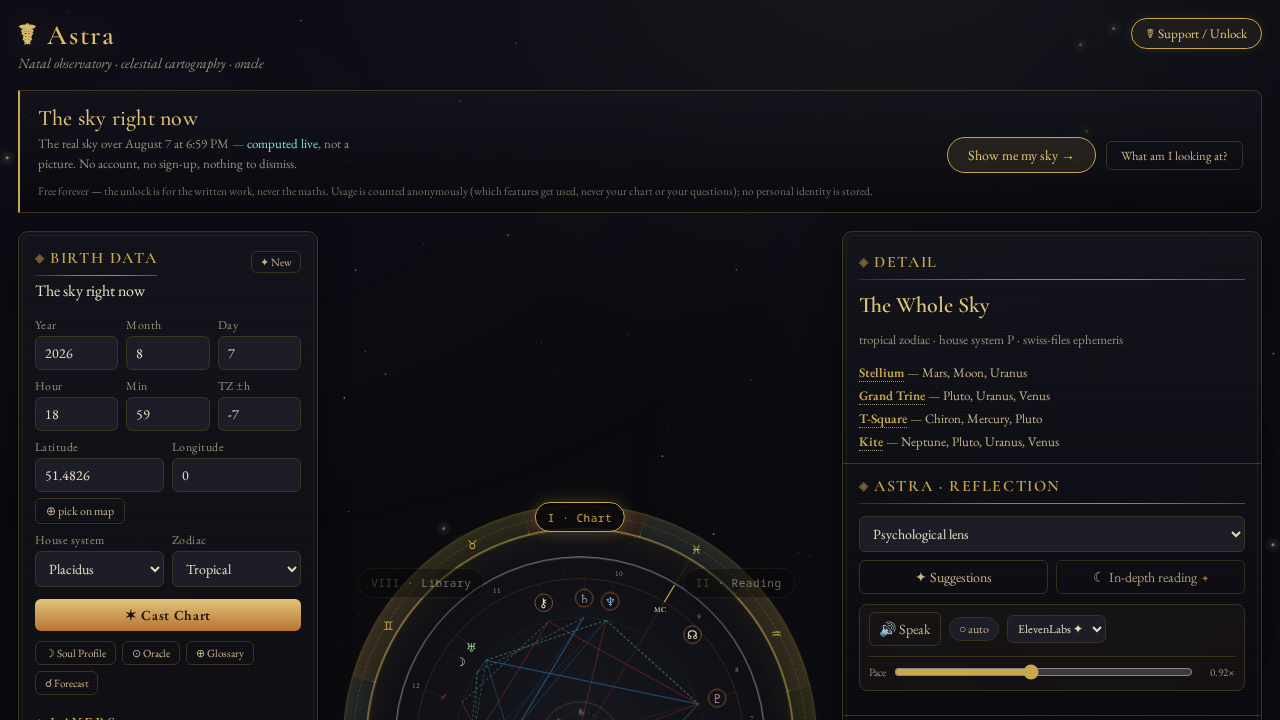
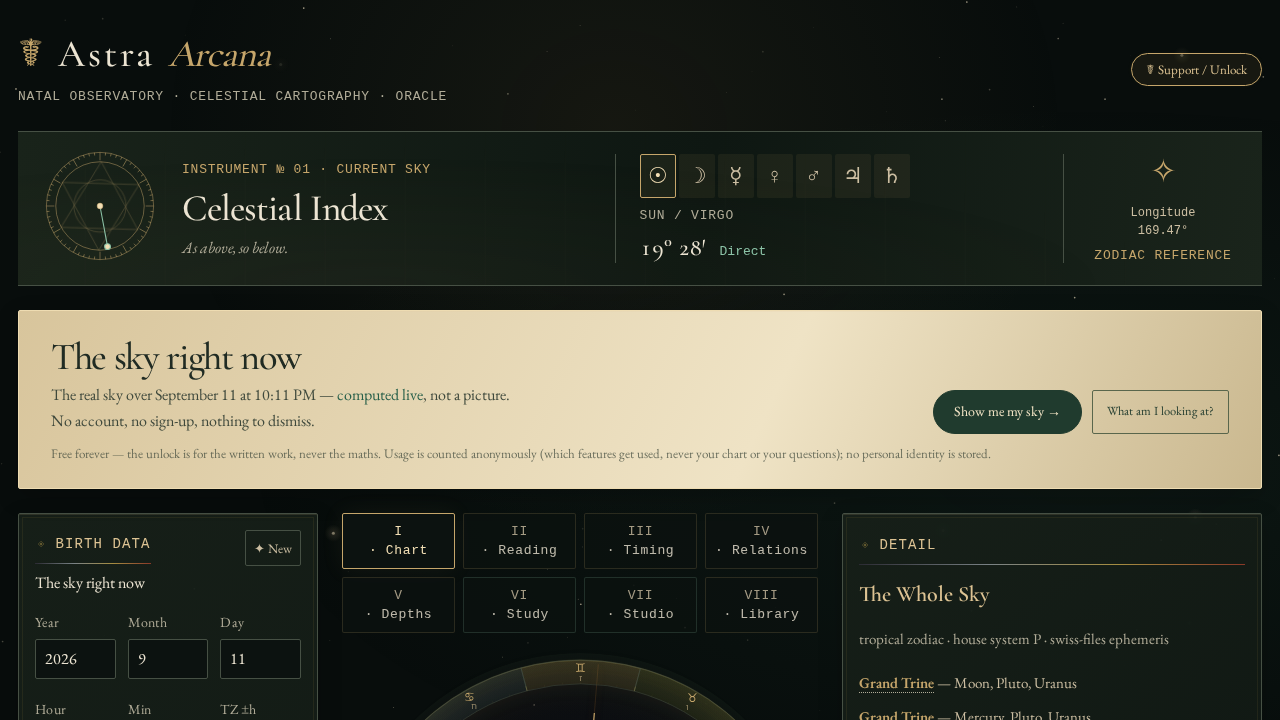
The vendored faces lead the type again, and two specs learn to scroll before they drag
Three things the full suite found on a clean stack, and the screenshots
that follow from the first.

1. EB GARAMOND HAD STOPPED LOADING. The redesign wrote the two serif
   stacks as system faces — Palatino, Book Antiqua, Baskerville, Georgia —
   on the reasoning that a system stack makes no font request. True, and
   beside the point: the vendored faces in public/fonts make no request
   either, and they are the only serifs an Android WebView can render at
   all. A phone has none of the four named, so the APK would have fallen
   to Noto Serif on every screen. no-external.spec pins that the vendored
   face actually loads, and it failed. Cormorant Garamond and EB Garamond
   lead both stacks again; the system faces stay as fallbacks for a reader
   whose font files never arrived. The design doc's type row says so now.

2. TWO TORUS SPECS DRAGGED AT A POINT BELOW THE FOLD. torus-layers and
   torus-hebrew-crystal stop the idle spin with a page.mouse drag at the
   canvas's centre. page.mouse moves to viewport coordinates and never
   scrolls; the masthead's Celestial Index put that centre past 720px, so
   elementFromPoint there was null, the pointerdown reached nothing, the
   spin never stopped, and three layer tests failed while looking like a
   layer bug (the idle-spin test itself passed or failed on the scroll
   position the tab click happened to leave). Measured, not inferred: a
   probe reported "under centre: none" and zero pointerdowns on the canvas.
[…]

diff --git a/frontend/e2e/capture-screenshots.spec.ts b/frontend/e2e/capture-screenshots.spec.ts
@@ -53,6 +53,16 @@ async function shot(page: import("@playwright/test").Page, name: string) {
   await page.screenshot({ path: path.join(OUT, `${name}.png`), fullPage: false });
 }
 
+/** The wheel shot. The masthead now carries the Celestial Index above the
+ *  chart, and on a 1280×720 viewport that puts the wheel below the fold — a
+ *  "chart wheel" screenshot that shows a header is not one. Bring the stage
+ *  into view first; the clipped viewport is still what a visitor sees. */
+async function wheelShot(page: import("@playwright/test").Page, name: string) {
+  await page.locator(".chart-holo-stage").scrollIntoViewIfNeeded();
+  await page.waitForTimeout(250);
+  await shot(page, name);
+}
+
 async function chapter(page: import("@playwright/test").Page, ch: string, name: string) {
   await page.locator(`.dial-node[data-ch="${ch}"]`).click();
   await page.waitForTimeout(700); // chapter bloom is a 240ms clip-path wipe
@@ -76,7 +86,7 @@ test("capture: the free tier, as a first-time visitor meets it", async ({ page }
 
 test("capture: the chart and the chapters, free tier", async ({ page }) => {
   await enter(page);
-  await shot(page, "03-chart-wheel");
+  await wheelShot(page, "03-chart-wheel");
   await chapter(page, "II", "04-reading-arcana");
   await chapter(page, "III", "05-timing-forecast");
   await chapter(page, "IV", "06-relations");
@@ -105,7 +115,7 @@ test("capture: the premium surfaces, on an oracle entitlement", async ({ page })
   const { oracle } = mintedTokens();
   test.skip(!oracle, "no oracle token — global-setup could not mint one");
   await enter(page, oracle);
-  await shot(page, "10-oracle-tier-chart");
+  await wheelShot(page, "10-oracle-tier-chart");
   await chapter(page, "II", "11-oracle-reading-surface");
   await chapter(page, "VI", "12-study-course-and-path");
   await chapter(page, "VII", "13-studio-deck-art");
@@ -128,7 +138,7 @@ test("capture: mobile viewport", async ({ browser }) => {
   const ctx = await browser.newContext({ viewport: { width: 390, height: 844 } });
   const page = await ctx.newPage();
   await enter(page);
-  await shot(page, "15-mobile-chart");
+  await wheelShot(page, "15-mobile-chart");
   await page.locator(`.dial-node[data-ch="II"]`).click();
   await page.waitForTimeout(700);
   await shot(page, "16-mobile-reading");

diff --git a/landing/index.html b/landing/index.html
@@ -37,9 +37,12 @@
 
 <style>
   :root{
-    --bg:#0b0b0f; --panel:#12121a; --gold:#c9a84c; --gold-soft:#e0c578;
-    --gold-bright:#f2dca0; --ink:#9a8f78; --rule:#3a3320; --amethyst:#8e7cc3;
-    --ion:#7fe7dc; --text:#e8e3d6;
+    /* The engraved observatory's palette (frontend/src/observatory.css), so the
+       door and the room match: green-black obsidian, brass rules, vitriol for
+       anything computed, parchment for the reading. */
+    --bg:#080d0c; --panel:#0c1210; --gold:#c5a66b; --gold-soft:#ddc393;
+    --gold-bright:#f3dfb5; --ink:#b1ac98; --rule:#465044; --amethyst:#8bc5ad;
+    --ion:#8bc5ad; --text:#ece4d2;
     --serif: "Iowan Old Style","Palatino Linotype",Palatino,Georgia,"Times New Roman",serif;
   }
   *{box-sizing:border-box}
@@ -108,11 +111,11 @@
   th,td{padding:13px 12px; text-align:left; border-bottom:1px solid var(--rule); vertical-align:top}
   th{color:var(--gold); font-weight:600; font-size:13px; letter-spacing:.09em; text-transform:uppercase}
   .price{color:var(--gold-bright); font-weight:600; white-space:nowrap}
-  .free-row td{background:#12121a55}
+  .free-row td{background:#0c121055}
 
   blockquote{
     margin:0; padding:22px 26px; border-left:2px solid var(--amethyst);
-    background:#12121a88; border-radius:0 10px 10px 0; font-style:italic;
+    background:#0c121088; border-radius:0 10px 10px 0; font-style:italic;
     color:var(--text); font-size:17.5px;
   }
   .attest{color:var(--ion); font-size:14px; margin-top:14px}

diff --git a/frontend/e2e/torus-layers.spec.ts b/frontend/e2e/torus-layers.spec.ts
@@ -21,6 +21,14 @@ async function openTorus(page: import("@playwright/test").Page) {
   // Stop the idle spin before comparing pixels. The torus turns gently until
   // the reader takes the wheel, so consecutive frames differ on their own and
   // a diff would prove nothing about the layer. One drag hands over control.
+  //
+  // The drag has to LAND. `page.mouse` moves to viewport coordinates and does
+  // not scroll, and since the masthead grew the Celestial Index the canvas's
+  // centre can sit below a 720px fold — elementFromPoint there is null, the
+  // pointerdown reaches nothing, the spin never stops, and every diff below
+  // fails while looking like a layer bug. Bring the canvas in first.
+  await canvas(page).scrollIntoViewIfNeeded();
+  await page.waitForTimeout(400); // the chapter's arrival animation, settled
   const box = (await canvas(page).boundingBox())!;
   await page.mouse.move(box.x + box.width / 2, box.y + box.height / 2);
   await page.mouse.down();

diff --git a/frontend/src/observatory.css b/frontend/src/observatory.css
@@ -25,8 +25,13 @@
   --glass-hi: #172019f5;
   --glass-lo: #0d1511f5;
   --scanline: linear-gradient(transparent, transparent);
-  --serif: "Palatino Linotype", "Book Antiqua", Palatino, Georgia, serif;
-  --display: "Baskerville", "Iowan Old Style", "Palatino Linotype", Georgia, serif;
+  /* The vendored faces lead both stacks (public/fonts, no network request):
+   * they are the only ones an Android WebView can actually render — a phone
+   * has no Palatino, Baskerville or Georgia and would fall to Noto Serif —
+   * and no-external.spec pins that they load. The system faces stay as the
+   * fallback for a reader whose font files never arrived. */
+  --serif: "EB Garamond", "Palatino Linotype", "Book Antiqua", Palatino, Georgia, serif;
+  --display: "Cormorant Garamond", "EB Garamond", Baskerville, "Iowan Old Style", "Palatino Linotype", Georgia, serif;
   --mono: "SFMono-Regular", Consolas, "Liberation Mono", monospace;
   --space-1: .25rem;
   --space-2: .5rem;

diff --git a/frontend/e2e/torus-hebrew-crystal.spec.ts b/frontend/e2e/torus-hebrew-crystal.spec.ts
@@ -21,7 +21,11 @@ async function openTorus(page: import("@playwright/test").Page) {
   await expect(canvas(page)).toBeVisible();
   // Stop the idle spin — same reason as torus-layers.spec: the surface turns on
   // its own until the reader takes the wheel, and a diff against a moving
-  // target proves nothing.
+  // target proves nothing. And the drag has to land: page.mouse does not
+  // scroll, and the masthead's Celestial Index can put the canvas centre
+  // below a 720px fold, where a pointerdown reaches nothing.
+  await canvas(page).scrollIntoViewIfNeeded();
+  await page.waitForTimeout(400);
   const box = (await canvas(page).boundingBox())!;
   await page.mouse.move(box.x + box.width / 2, box.y + box.height / 2);
   await page.mouse.down();

diff --git a/docs/progress/CODEX_HANDOFF_2026-09-11.md b/docs/progress/CODEX_HANDOFF_2026-09-11.md
@@ -1,0 +1,101 @@
+# Astra handoff — engraved observatory review
+
+Session: September 11, 2026. Workspace: `/home/kill/astro-aae`.
+
+## What this session was
+
+A frontend visual redesign, followed by live local review and corrections to typography, chart navigation, and transit timeline layout. The result is committed and pushed for review; it is not a merged or published release.
+
+## Start here
+
+- Branch: `codex/engraved-observatory-review`.
+- Commit: `fcc96f1` — `Redesign observatory and improve chart timeline readability`.
+- Remote: `https://github.com/9x25dillon/astro_caster.git`.
+- Branch URL: https://github.com/9x25dillon/astro_caster/tree/codex/engraved-observatory-review
+- Branched from `claude/holographic-natal-wheel` at `39fa572`. Do not assume the branch was based directly on current `main`; check ancestry before preparing a PR.
+- Push succeeded and upstream tracking was established. No PR was created, no merge performed, no APK rebuilt, and no release published in this session.
+- This new root handoff is local and uncommitted when written. An unrelated exported text report is also untracked: preserve it and exclude it from staging.
+- `docs/progress/Hand_off.md` is older historical context. Its production SHAs, test counts, shell notes, and release status must be reverified, not treated as current facts.
+
+## User intent and boundaries
+
+The user wants a sophisticated arcane instrument aesthetic: obsidian, brass, vitriol green, parchment, celestial geometry, and purposeful motion. Avoid purple-gradient styling and decorative effects that compromise legibility or hit targets.
+
+The application has a Hetzner-hosted frontend/backend/webpage and an Android APK. The user explicitly wants a full review before rebuilding the APK or publishing a release. Work locally on the review branch; do not merge, deploy, rebuild the APK, or publish without subsequent authorization. Do not infer production status from local Git state.
+
+The user initially paused edits to review screenshots, then explicitly authorized local typography/overlap fixes, then authorized committing and pushing to a new branch without merging. Those actions are complete. The next session should start with their review feedback, not an unsolicited redesign pass.
+
+## Implemented
+
+- `frontend/src/observatory.css`: new theme loaded after the legacy stylesheet; brass/vitriol colors, parchment introduction, typography and spacing, responsive instrument styling, motion, and accessibility overrides.
+- `frontend/src/components/CelestialIndex.tsx`: seven classical-body controls using actual chart data; longitude pointer, decorative sixfold lattice, keyboard activation, pressed state, and chart-detail selection.
+- `frontend/src/App.tsx` and `main.tsx`: header integration and stylesheet import.
+- `frontend/src/components/TransitSlider.tsx`: separate step controls, range slider, date field, and aspect rows; native transit toggle button.
+- `frontend/src/components/Starfield.tsx`: reduced-motion preference, visibility pause, context guard, and listener/frame cleanup.
+- `frontend/src/theme.css` and `ChartHologram.tsx`: legacy amethyst/cyan material accents migrated toward vitriol.
+- `docs/design/engraved-observatory.md`: design thesis, token rationale, API annotations, motion specification, migration notes, and validation limitations.
+
+Modern CSS includes `oklch()`, `color-mix()`, `@property`, container queries, `:has()`, and feature-gated scroll timelines. No WebGPU renderer was introduced. Chart calculations, payment behavior, storage, and backend code were not changed.
+
+## User feedback resolved — do not regress
+
+1. Text felt cramped. Labels now generally use 13–14px; principal reading text uses 15–16px, with explicit leading and more control spacing. Small chart glyphs and some legacy secondary text retain their existing sizing.
+2. A sticky desktop wheel overlapped the active timeline by approximately 114px at 1440×720. At 1920×1080, its container intercepted the transit toggle. The final wheel and timeline stay in normal document flow, in separate grid rows.
+3. Moving chapter labels inward prevented side-panel collisions but covered planet glyphs. That approach was rejected. Final desktop chapter navigation is a separate strip above the wheel; mobile retains the bottom navigation. Do not restore overlapping orbital buttons without addressing chart hit targets.
+
+## Validation evidence and limits
+
+- Production frontend build passed after the final layout changes.
+- 216 frontend unit tests passed earlier in the session, before the final typography/timeline refinements. Do not describe this as a fresh final-commit unit-test run.
+- The final targeted browser run passed 10 of 11 checks: four viewport/timeline regressions, two planet-hover checks, and four chapter/navigation checks.
+- The remaining shell check expects `Support / Unlock`; the running local service returns `Supporter`. The chart booted, but the account-tier assertion failed. The local configuration was preserved. Do not weaken the assertion merely to make this run green.
+- Earlier Celestial Index, reduced-motion, desktop/mobile, and onboarding checks passed. The final targeted run used desktop Chromium, including a 390×844 viewport; this does not equal physical-device validation.
+- Regression coverage: `frontend/e2e/timeline-layout.spec.ts` checks 1440×720, 1920×1080, 1280×720, and 390×844; it activates transits, steps dates, uses the slider keyboard control, and checks scroll separation and horizontal overflow.
+- Build warnings remain for vendored Swiss Ephemeris module format, bundle size, and ineffective dynamic imports.
+- No final full backend/full E2E suite, Safari/Firefox, real Android WebView, APK, or performance-profile validation was performed. Remote CI was not verified.
+
+## Local preview and commands
+
+Last started: frontend `http://127.0.0.1:5173/`; backend `http://127.0.0.1:8787`. Check listeners before starting anything; these processes may not survive between sessions.
+
+```bash
+git status --short
+git branch --show-current
+git log -1 --oneline
+ss -ltnp
+```
+
+If the ports are free, start these in separate terminals:
+
+```bash
+# From backend/
+AAE_ENV=development .venv/bin/uvicorn main:app --host 127.0.0.1 --port 8787
+
+# From frontend/
+npm run dev -- --host 127.0.0.1 --port 5173 --strictPort
+```
+
+Use existing dependencies. `run.sh` kills existing listeners and installs dependencies, so inspect it before using it against an active environment. Playwright's config invokes that script if no local server is available; do not launch the harness blindly. The current workspace shell is Bash. Git writes, local server binds, and browser launches needed sandbox escalation during this session.
+
+```bash
+# From frontend/, with preview-service behavior understood
+npm run build
+npm test
+npm run e2e -- --project=desktop-chromium e2e/timeline-layout.spec.ts e2e/wheel-hover.spec.ts e2e/app-shell.spec.ts e2e/celestial-index.spec.ts
+```
+
+Screenshots are generated under `frontend/test-results/` and are temporary, ignored artifacts. Later test runs can replace them. Inspect them rather than claiming passing geometry assertions establish visual quality.
+
+## Next session
+
+1. Read this handoff; verify branch, working tree, server state, and current authorization. Preserve the unrelated report and any new user files.
+2. Resume the user's visual review at the local URL. Ask for the particular screen, action, viewport/browser zoom, or screenshot when a reported issue cannot be reproduced.
+3. Apply only the requested refinements; test active states, scrolling, short desktop windows, keyboard hit targets, and mobile text wrapping.
+4. Before any release decision, resolve the test environment's account-tier assumption, run appropriate release checks, and validate on the intended Android WebView/device. The user decides when to rebuild and publish.
+5. If further commits are requested, stage explicit paths. No merging or deployment is currently authorized.
+
+## Collaboration lessons
+
+- Assistant: establish environment/release boundaries before broad changes; measure active and scrolled layouts early; use focused viewport tests before broader suites.
+- User: include deployment boundaries, screen/zoom/reproduction details, and concrete completion criteria in the initial request. Their detailed aesthetic brief and direct visual feedback were useful; implementation defects were the assistant's responsibility.
+- Useful terms: **acceptance criteria** = observable conditions for calling work done; **progressive enhancement** = a working baseline improved by newer features when supported.

diff --git a/docs/design/engraved-observatory.md b/docs/design/engraved-observatory.md
@@ -13,7 +13,7 @@ The complete executable token set is [`frontend/src/observatory.css`](../../fron
 | Computed coordinates | `--ion`, `--ion-soft` | Vitriol green separates coordinates from brass structure. |
 | Reading | `--parchment`, `--sepia`, `--ink` | Warm, opaque surfaces and quieter secondary text. |
 | Tension / harmony | `--danger`, `--harmonious` | Copper and verdigris preserve semantic distinctions. |
-| Type | `--display`, `--serif`, `--mono` | Book display, sustained reading, tabular instrument notation. System stacks require no font requests. |
+| Type | `--display`, `--serif`, `--mono` | Book display, sustained reading, tabular instrument notation. The vendored Cormorant / EB Garamond faces lead both serif stacks (no font request either way, and the only faces an Android WebView can render); the system faces are fallbacks. |
 | Spacing | `--space-1` … `--space-12` | Quarter-rem scale, dense instrumentation with separated reading areas. |
 | Elevation | `--elevation-1`, `--elevation-2` | Inset metallic edge and restrained physical shadow. |
 
